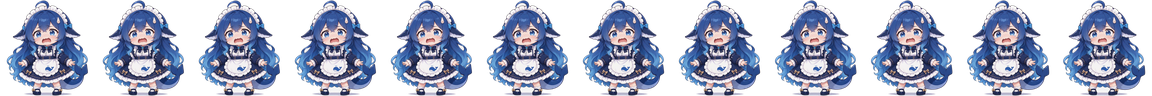
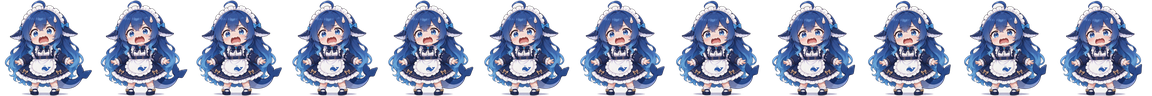
v1.9.1: mode-based loop search (calm vs action) + real-time window length
The seam-minimizing search kept picking near-static windows (looked
frozen, skipped the new worry clip's panic section). Now:
- calm mode (normal): minimize seam
- action mode (worry/daze): among windows with acceptable seam (<25)
  pick the one with the most frame-to-frame motion
- window length 0.8-1.5s of source (fps-adaptive) so playback is near
  real-time instead of slow motion; sprite timer 100ms -> 85ms
GLM worry now uses the panic section of the new clip (motion 5.5 vs
0.7 before, frame diff 42.5).

diff --git a/tools/make-sheets.py b/tools/make-sheets.py
@@ -1,7 +1,8 @@
 # -*- coding: utf-8 -*-
-# 精灵图流水线 v2：自动寻找无缝循环窗口（正向播放，不用倒放）
-#   1) 全帧降采样算帧差，搜索首尾差异最小的 (起点, K=12帧) 窗口
-#   2) 只在窗口内抽 12 帧 -> 洪泛抠白底 -> 联合包围盒 -> 96px 横向拼接
+# 精灵图流水线 v3：分策略循环窗口搜索
+#   calm  模式（标准待机）：找接缝差最小的窗口（越稳越好）
+#   action模式（紧张/痴呆）：接缝差可接受(<25/255)的窗口里挑动作最大的（越活越好）
+#   窗口长度按视频帧率自适应 0.5~1.7 秒，播放速度接近实时
 import os, sys
 import imageio
 import numpy as np
@@ -12,12 +13,12 @@ D = r"C:\Users\sober\Downloads"
 OUT = os.path.dirname(os.path.abspath(__file__)).replace("\\tools", "")
 SIZE, FRAMES = 96, 12
 JOBS = [
-    ("大肥鱼-标准.mp4", "anim-df-normal.png"),
-    ("大肥鱼-紧张.mp4", "anim-df-worry.png"),
-    ("大肥鱼-呆滞.mp4", "anim-df-daze.png"),
-    ("GLM-标准.mp4", "anim-zc-normal.png"),
-    ("GLM-新慌张.mp4", "anim-zc-worry.png"),
-    ("GLM-呆滞.mp4", "anim-zc-daze.png"),
+    ("大肥鱼-标准.mp4", "anim-df-normal.png", "calm"),
+    ("大肥鱼-紧张.mp4", "anim-df-worry.png", "action"),
+    ("大肥鱼-呆滞.mp4", "anim-df-daze.png", "action"),
+    ("GLM-标准.mp4", "anim-zc-normal.png", "calm"),
+    ("GLM-新慌张.mp4", "anim-zc-worry.png", "action"),
+    ("GLM-呆滞.mp4", "anim-zc-daze.png", "action"),
 ]
 
 def key_white(img):
@@ -44,9 +45,9 @@ def bbox_of(rgba):
     if len(xs) == 0: return None
     return xs.min(), ys.min(), xs.max(), ys.max()
 
-def find_loop(mp4):
-    """全帧降采样灰度化，找首尾差异最小的 K 帧窗口"""
+def find_loop(mp4, mode):
     r = imageio.get_reader(os.path.join(D, mp4))
+    fps = float(r.get_meta_data().get("fps") or 24)
     grays = []
     for f in r:
         g = Image.fromarray(f).convert("L").resize((160, 160), Image.BILINEAR)
@@ -54,21 +55,40 @@ def find_loop(mp4):
     r.close()
     n = len(grays)
     G = np.stack(grays)
-    best = (1e9, 0, 12)
-    for K in range(12, 31):                      # 0.5~1.25 秒 @24fps
+    # 窗口长度自适应帧率：0.5~1.7 秒
+    klo = max(8, int(fps * 0.8))
+    khi = min(n - 2, max(klo + 1, int(fps * 1.5)))
+    motion = np.abs(G[1:n] - G[0:n - 1]).mean(axis=(1, 2))   # 每帧运动量
+    best = None
+    for K in range(klo, khi + 1):
         d = np.abs(G[0:n - K] - G[K:n]).mean(axis=(1, 2))
-        s = int(d.argmin())
-        if d[s] < best[0]:
-            best = (float(d[s]), s, K)
-    _, s, K = best
+        mov = np.convolve(motion, np.ones(K) / K, mode="valid")   # 窗口平均运动量
+        if mode == "calm":
+            s = int(d.argmin())
+            cand = (float(d[s]), float(mov[s]), s, K)
+            if best is None or cand[0] < best[0]:
+                best = cand + ("calm",)
+        else:
+            ok = d < 25                                   # 接缝可接受才参与
+            if ok.any():
+                idx = np.where(ok)[0]
+                s = int(idx[mov[idx].argmax()])
+                cand = (float(d[s]), float(mov[s]), s, K)
+                if best is None or cand[1] > best[1]:
+                    best = cand + ("action",)
+    if best is None:
+        s, K = int((n - 1) * 0.4), klo
+        best = (0.0, 0.0, s, K, "fallback")
+    seam, mov, s, K, used = best
     idxs = [round(s + i * (K - 1) / (FRAMES - 1)) for i in range(FRAMES)]
-    seam = float(np.abs(G[idxs[0]] - G[idxs[-1]]).mean())
-    print("  loop: start=%d K=%d 帧间差=%.2f 接缝差=%.2f (n=%d)" % (s, K, best[0], seam, n))
-    return idxs, seam
+    seamf = float(np.abs(G[idxs[0]] - G[idxs[-1]]).mean())
+    print("  loop[%s]: start=%d K=%d(%.2fs) 接缝=%.2f 运动=%.2f (n=%d fps=%.0f)" %
+          (used, s, K, K / fps, seamf, mov, n, fps))
+    return idxs, seamf
 
-def process(mp4, out_name):
+def process(mp4, out_name, mode):
     print(out_name)
-    idxs, seam = find_loop(mp4)
+    idxs, seam = find_loop(mp4, mode)
     want = set(idxs)
     frames = []
     r = imageio.get_reader(os.path.join(D, mp4))
@@ -99,11 +119,7 @@ def process(mp4, out_name):
     for i, t in enumerate(tiles): sheet.paste(t, (i * SIZE, 0))
     sheet.save(os.path.join(OUT, out_name))
     print("  -> %s (%dx%d)" % (out_name, cw, ch))
-    return seam
 
-seams = {}
-for mp4, out in JOBS:
-    seams[out] = process(mp4, out)
-print("接缝差汇总（越小越无缝）:")
-for k, v in seams.items():
-    print("  %-24s %.2f" % (k, v))
+for mp4, out, mode in JOBS:
+    process(mp4, out, mode)
+print("done")

diff --git a/hdr-toggle.cs b/hdr-toggle.cs
@@ -1694,7 +1694,7 @@ namespace HDRToggle
                 _mockTimer.Start();
             }
             else RefreshData();
-            _animTimer = new DispatcherTimer { Interval = TimeSpan.FromMilliseconds(100) };
+            _animTimer = new DispatcherTimer { Interval = TimeSpan.FromMilliseconds(85) };   // 12.5fps，循环窗约 1 秒 = 实时速度
             _animTimer.Tick += delegate
             {
                 _animIdx = (_animIdx + 1) % Seq.Length;
